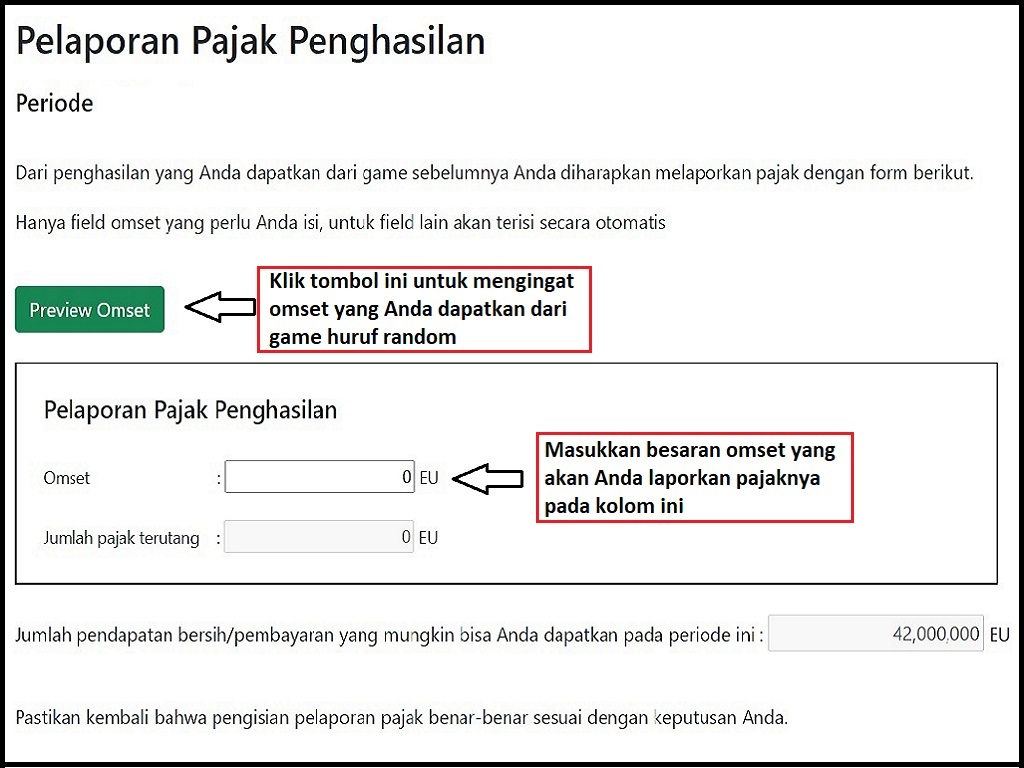
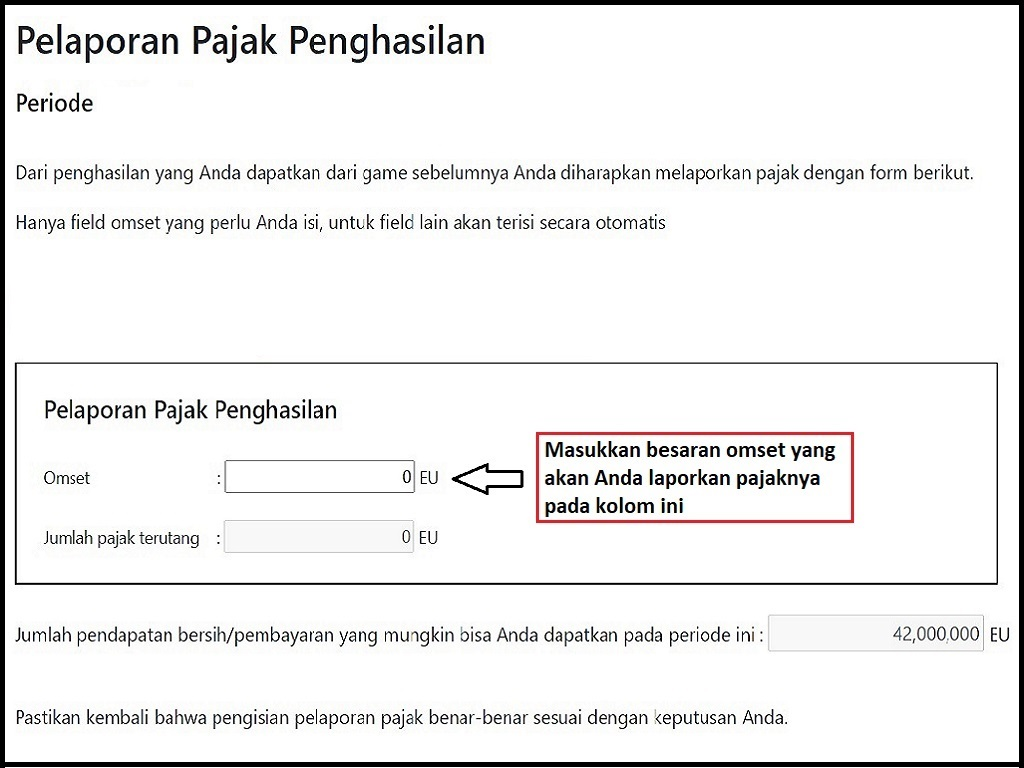
Mock Up 6.0

Changed region(s): [[0.0, 0.3438, 0.5938, 0.4688]]

diff --git a/instruction/templates/instruction/Pengantar.html b/instruction/templates/instruction/Pengantar.html
@@ -13,7 +13,7 @@
 {% block content %}
     <p><h5><b>Baca dan pahami cerita berikut untuk menjawab pertanyaan selanjutnya</b></h5></p>
     <p>Info Umum</p>
-	<p>Anda adalah warga negara <b>Nusa Makmur</b>. Pemerintah negara Nusa Makmur <b>mewajibkan setiap warga negara yang memiliki usaha untuk membayar pajak</b>. Pajak tersebut akan <b>digunakan untuk membiayai kebutuhan negara Nusa Makmur</b>. Pemungutan pajak dilakukan oleh <b>otoritas pajak Nusa Makmur</b>.</p>
+	<p>Anda adalah warga negara <b>Nusa Makmur</b>. Pemerintah negara Nusa Makmur <b>mewajibkan setiap warga negara yang memiliki usaha untuk untuk mencatat, membayar, dan melaporkan pajak</b>. Pajak tersebut akan <b>digunakan untuk membiayai kebutuhan negara Nusa Makmur</b>. Pemungutan pajak dilakukan oleh <b>otoritas pajak Nusa Makmur</b>.</p>
     <p>Nusa makmur menetapkan <b>perhitungan pajak</b> dengan cara yaitu:
         <ul>
             <li>tarif pajak dikali <b>dengan omset (bukan dari laba) sebagai dasar pengenaan pajak</b>.
@@ -23,16 +23,16 @@
         </ul>
     </p>
     <p>
-        Untuk saat ini, Anda sebagai warga negara Nusa Makmur akan membayar dan melaporkan pajak dalam <b>15 periode</b>.
+        Untuk saat ini, Anda sebagai warga negara Nusa Makmur akan mencatat, membayar dan melaporkan pajak dalam <b>15 periode</b>.
     </p>
     <p>
-        Sebagai bentuk <b>pengawasan atas pembayaran pajak</b> maka otoritas pajak Nusa Makmur diwajibkan melaksanakan pemeriksaan terhadap <b>20% s.d. 40% dari total pelaporan</b>, yaitu <b>3 atau 4 atau 5 atau 6 dari 15 periode pelaporan pajak</b> akan diperiksa di akhir periode pembayaran dan pelaporan pajak.
+        Sebagai bentuk <b>pengawasan atas pembayaran dan pelaporan pajak</b> maka otoritas pajak Nusa Makmur diwajibkan melaksanakan pemeriksaan pajak terhadap warga negara Nusa Makmur di akhir periode pembayaran dan pelaporan pajak. Pemeriksaan ini dilakukan secara acak dengan probabilitas diperiksa sebesar <b>20% s.d. 40% </b>untuk masing-masing wajib pajak pada setiap pelaporan pajaknya.
     </p>
 	<p>Atas pemeriksaan yang dilakukan, jika terdapat <b>ketidakpatuhan pembayaran pajak</b> atau dalam hal ini <b>omset yang dilaporkan tidak sesuai dengan omset yang sebenarnya</b> maka otoritas pajak Nusa Makmur akan menetapkan denda sebesar <b>200% dari selisih pajak yang kurang dibayar</b>.
     </p>
     <p>
         Isilah pertanyaan berikut terkait dengan informasi di atas dengan benar untuk dapat melanjutkan ke tahap berikutnya
-        <br>Pilih jawaban yang benar
+        <br>Pilih jawaban yang <b>benar</b>
     </p>
     {{formfield 'q1'}}
     {{formfield 'q2'}}

diff --git a/instruction/templates/instruction/Results.html b/instruction/templates/instruction/Results.html
@@ -14,13 +14,31 @@
 
 <h5>Periode latihan ke-{{round}}</h5>
 <br>
-    <p>Anda mendapatkan laba sebesar = <b><span id="laba"></span> EU</b>, dengan rincian</p>
-    <p>Waktu bermain {{player.waktu}} Detik dan jawaban yang benar adalah {{player.performance}}
-        <h5>Omset&#9;:&#9;{{player.performance}} x <span id="base_omset"></span> EU = <span id="omset"></span> EU</h5>
-        <h5>Biaya&#9;:&#9;{{base_biaya}}% x <span id="omset2"></span> EU = <span id="biaya"></span> EU</h5>
-        <h5>Laba&#9;:&#9;<span id="omset3"></span> EU - <span id="biaya2"></span> EU = <span id="laba2"></span> EU</h5>
-
-    </p>
+<p>Waktu bermain {{player.waktu}} Detik dan jawaban yang benar adalah {{player.performance}}, dengan rincian:</p>
+<table class="hasil">
+    <tr>
+        <td style="width: 30%;">
+            <h4>Omset</h4>{{player.performance}} x <span id="base_omset"></span> EU<br><br>
+            <h4><span id="omset"></span> EU</h4>
+        </td>
+        <td style="width: 30%;">
+            <h4>Biaya</h4>{{base_biaya}}% x <span id="omset2"></span> EU<br><br>
+            <h4><span id="biaya"></span> EU</h4>
+        </td>
+        <td style="width: 30%;">
+            <h4>Laba</h4><span id="omset3"></span> EU - <span id="biaya2"></span> EU<br><br>
+            <h4><span id="laba2"></span> EU</h4>
+        </td>
+    </tr>
+</table>
+<br>
+<table class="notif">
+    <tr>
+        <td>
+            <h5>Anda dapat mencatat hasil game effort (omset/biaya/laba) Anda untuk periode ini menggunakan alat tulis yang sudah Anda siapkan</h5>
+        </td>
+    </tr>
+</table>
     <br><br><br><br><br><br>
     <p>Tekan tombol 'Lanjut' untuk melanjutkan ke tahap berikutnya.</p>
     <button class="otree-btn-next btn btn-primary">Lanjut</button>
@@ -38,7 +56,7 @@
     document.getElementById("omset3").textContent = thousands_separators({{player.total_omset}});
     document.getElementById("biaya").textContent = thousands_separators({{player.total_biaya}});
     document.getElementById("biaya2").textContent = thousands_separators({{player.total_biaya}});
-    document.getElementById("laba").textContent = thousands_separators({{player.total_omset}} - {{player.total_biaya}})
+    //document.getElementById("laba").textContent = thousands_separators({{player.total_omset}} - {{player.total_biaya}})
     document.getElementById("laba2").textContent = thousands_separators({{player.total_omset}} - {{player.total_biaya}})
 
 </script>

diff --git a/game/templates/game/Hasil.html b/game/templates/game/Hasil.html
@@ -14,13 +14,31 @@
 
 <h5>Periode Inti ke-{{round}}</h5>
 <br>
-<p>Anda mendapatkan laba sebesar = <b><span id="laba"></span> EU</b>, dengan rincian</p>
-    <p>Waktu bermain {{player.waktu}} Detik dan jawaban yang benar adalah {{player.performance}}
-        <h5>Omset&#9;:&#9;{{player.performance}} x <span id="base_omset"></span> EU = <span id="omset"></span> EU</h5>
-        <h5>Biaya&#9;:&#9;{{base_biaya}}% x <span id="omset2"></span> EU = <span id="biaya"></span> EU</h5>
-        <h5>Laba&#9;:&#9;<span id="omset3"></span> EU - <span id="biaya2"></span> EU = <span id="laba2"></span> EU</h5>
-
-    </p>
+<p>Waktu bermain {{player.waktu}} Detik dan jawaban yang benar adalah {{player.performance}}, dengan rincian:</p>
+<table class="hasil">
+    <tr>
+        <td style="width: 30%;">
+            <h4>Omset</h4>{{player.performance}} x <span id="base_omset"></span> EU<br><br>
+            <h4><span id="omset"></span> EU</h4>
+        </td>
+        <td style="width: 30%;">
+            <h4>Biaya</h4>{{base_biaya}}% x <span id="omset2"></span> EU<br><br>
+            <h4><span id="biaya"></span> EU</h4>
+        </td>
+        <td style="width: 30%;">
+            <h4>Laba</h4><span id="omset3"></span> EU - <span id="biaya2"></span> EU<br><br>
+            <h4><span id="laba2"></span> EU</h4>
+        </td>
+    </tr>
+</table>
+<br>
+<table class="notif">
+    <tr>
+        <td>
+            <h5>Anda dapat mencatat hasil game effort (omset/biaya/laba) Anda untuk periode ini menggunakan alat tulis yang sudah Anda siapkan</h5>
+        </td>
+    </tr>
+</table>
     <br><br><br><br><br><br>
     <p>Tekan tombol 'Lanjut' untuk melanjutkan ke tahap berikutnya.</p>
     <button class="otree-btn-next btn btn-primary">Lanjut</button>
@@ -38,7 +56,7 @@
     document.getElementById("omset3").textContent = thousands_separators({{player.total_omset}});
     document.getElementById("biaya").textContent = thousands_separators({{player.total_biaya}});
     document.getElementById("biaya2").textContent = thousands_separators({{player.total_biaya}});
-    document.getElementById("laba").textContent = thousands_separators({{player.total_omset}} - {{player.total_biaya}})
+    //document.getElementById("laba").textContent = thousands_separators({{player.total_omset}} - {{player.total_biaya}})
     document.getElementById("laba2").textContent = thousands_separators({{player.total_omset}} - {{player.total_biaya}})
 
 </script>

diff --git a/instruction/templates/instruction/Instruksi3.html b/instruction/templates/instruction/Instruksi3.html
@@ -36,13 +36,12 @@ table.pre, td.pre, th.pre {
 {% block content %}
 <p>Beberapa hal yang perlu Anda pahami dalam eksperimen ini yaitu (lanjutan):</p>
 <p><h5><b>g. Pelaporan Pajak</b></h5></p>
-<p>Dari penghasilan yang Anda dapatkan dari game huruf random pada tahap sebelumnya. Anda akan melaporkan pajak dalam form berikut. Untuk memudahkan, hanya field omset yang perlu Anda isi, untuk field lain akan terisi secara otomatis. Berikut adalah tangkapan layar dari penelitian agar Anda dapat lebih mudah memahami.</p>
+<p>Dari pencatatan penghasilan yang Anda dapatkan dari game huruf random pada tahap sebelumnya, selanjutnya Anda akan melaporkan pajak dalam form berikut. Untuk memudahkan, hanya field omset yang perlu Anda isi, untuk field lain akan terisi secara otomatis. Berikut adalah tangkapan layar dari penelitian agar Anda dapat lebih mudah memahami.</p>
 <img src="{% static image_5%}" width="1024" height="768">
 
 <p>Fungsi tombol:</p>
 <ul>
-  <li>Tombol Preview Omset digunakan untuk melihat omset atau pendapatan yang Anda dapatkan dari game sebelumnya.</li>
-  <li>Jumlah pajak terutang dimunculkan sesuai omset yang Anda masukkan dalam kolom omset dengan penghitungan 10% dikali omset yang dilaporkan</li>
+  <li>Jumlah pajak terutang dimunculkan sesuai omset yang Anda masukkan dalam kolom omset dengan penghitungan <b>10%</b> dikali omset yang dilaporkan</li>
   <li>Jumlah pembayaran yang mungkin didapat adalah jumlah pembayaran yang mungkin bisa Anda dapatkan sesuai data pelaporan pajak yang Anda sampaikan dengan penghitungan Laba dikurangi Pajak terutang</li>
 </ul>
 <br>

diff --git a/consent/templates/consent/Welcome.html b/consent/templates/consent/Welcome.html
@@ -12,13 +12,14 @@
 
 {% block content %}
     <p>
-        Terima kasih atas partisipasi dalam penelitian ini. Data Anda dijamin keamanannya, analisis data akan dilakukan secara anonim. Tampilan terbaik untuk eksperimen ini adalah dengan menggunakan Laptop/PC.
+        Terima kasih atas partisipasi Anda dalam penelitian ini. Data Anda dijamin keamanannya. Analisis data dalam penelitian ini akan dilakukan secara anonim.
     </p>
-    <p>
-        Tampilan optimal untuk eksperimen ini adalah <b>dengan menggunakan Laptop/PC</b>, usahakan Anda berada di tempat yang nyaman dalam melaksanakan penelitian ini.
-    </p>
-    <p>
-        Meskipun penelitian ini dilakukan secara online, diharapkan masing-masing peserta tidak berkomunikasi satu sama lain.
+    <p>Untuk melaksanakan penelitian ini, maka:
+        <ol>
+            <li>Pastikan Anda berada <b>di tempat yang nyaman</b>.</li>
+            <li>Menyiapkan <b>Laptop/PC</b> yang dilengkapi dengan <b>koneksi internet yang baik</b> untuk mengakses penelitian ini agar menghasilkan <b>tampilan yang optimal</b>.</li>
+            <li>Menyiapkan <b>alat tulis (pensil/pena/kertas)</b> untuk <b>mencatat</b>.</li>
+        </ol>
     </p>
     <p>
         Anda akan dapat menyetujui informed consent dan menyimak instruksi permainan ini pada halaman berikutnya.

diff --git a/instruction/templates/instruction/Instruksi2.html b/instruction/templates/instruction/Instruksi2.html
@@ -53,8 +53,9 @@ table.pre, td.pre, th.pre {
 <p>Huruf yang muncul dalam pertanyaan serta urutan huruf dan angka dalam tabel enkripsi dirandom dengan distribusi uniform.</p>
 <p>Setelah waktu berakhir (sesuai mode yang dipilih) maka hasil game huruf random akan muncul. Misal Anda mendapat 8 jawaban benar maka pendapatan yang Anda dapatkan adalah:</p>
 <img src="{% static image_4 %}" width="1024" height="768">
+<p></p>
 <p>Secara rata-rata, semakin banyak jawaban benar maka semakin banyak pembayaran yang mungkin Anda dapatkan.</p>
-<p>Hasil dari game ini yang selanjutnya akan digunakan untuk keperluan pelaporan pajak pada tahap berikutnya.</p>
+<p>Hasil dari game ini selanjutnya akan digunakan untuk keperluan pelaporan pajak pada tahap berikutnya. Sekali lagi diingatkan bahwa tidak ada fitur back page atau kembali ke halaman sebelumnya dalam eksperimen ini sehingga hanya ada satu kesempatan untuk melakukan pencatatan omset sebelum meng-klik tombol lanjut.</p>
 <br>
 <p>Tekan tombol 'Lanjut' jika Anda sudah memahami instruksi di atas.</p>
 <button class="otree-btn-next btn btn-primary">Lanjut</button>

diff --git a/instruction/templates/instruction/Instruksi4.html b/instruction/templates/instruction/Instruksi4.html
@@ -36,7 +36,7 @@ table.pre, td.pre, th.pre {
 {% block content %}
 <p>Beberapa hal yang perlu Anda pahami dalam eksperimen ini yaitu (lanjutan):</p>
 <p><h5><b>h. Pemeriksaan</b></h5></p>
-<p>Pemeriksaan adalah pengujian kepatuhan atas omset yang Anda laporkan dibandingkan dengan omset yang Anda dapatkan dari game huruf random. Probabilitas pemeriksaan dalam penelitian ini sebesar 20% s.d 40% yang artinya jumlah periode yang diperiksa untuk pelaporan Anda adalah 3 atau 4 atau 5 atau 6 dari total 15 periode pelaporan pajak inti. Probabilitas, jumlah, dan urutan periode pemeriksaan dilakukan secara acak untuk masing-masing subjek.</p>
+<p>Pemeriksaan adalah pengujian kepatuhan atas omset yang Anda laporkan dibandingkan dengan omset yang Anda dapatkan dari game huruf random. Pemeriksaan ini dilakukan secara acak dengan probabilitas diperiksa sebesar 20% s.d. 40% untuk masing-masing wajib pajak pada setiap pelaporan pajaknya.</p>
 <p>Anda akan mendapat notifikasi hasil pemeriksaan yang berisikan:</p>
 <ul>
   <li>Status patuh/tidak patuh</li>

diff --git a/instruction/templates/instruction/Instruksi1.html b/instruction/templates/instruction/Instruksi1.html
@@ -35,7 +35,7 @@ table.pre, td.pre, th.pre {
 
 {% block content %}
 <p>Selamat datang dan terima kasih Anda telah bersedia untuk mengikuti eksperimen ini</p>
-<p><b>Ingat!</b> Anda tidak dapat menggunakan fitur <b>back page atau kembali ke halaman sebelumnya dalam eksperimen ini</b>.</p>
+<p><h4><b>Ingat!</b> Anda tidak dapat menggunakan fitur <b>back page atau kembali ke halaman sebelumnya dalam eksperimen ini</b>.</h4></p>
 <p>Maka dari itu, mohon pastikan Anda membaca dan memahami dengan seksama seluruh instruksi yang ada pada setiap halaman sebelum melanjutkan ke halaman berikutnya sehingga Anda dapat memahami apa yang harus Anda lakukan di dalam eksperimen ini</p>
 
 <p>Eksperimen ini memberikan Anda kesempatan untuk memperoleh uang tunai yang akan dibayarkan setelah Anda menyelesaikan rangkaian eksperimen ini. Besaran uang yang akan Anda peroleh bergantung pada apa yang Anda lakukan di dalam eksperimen ini. Oleh karenanya, mohon untuk serius dalam menyelesaikannya sesuai dengan keputusan Anda.</p>

diff --git a/instruction/templates/instruction/Instruksi6.html b/instruction/templates/instruction/Instruksi6.html
@@ -41,8 +41,9 @@ table.pre, td.pre, th.pre {
 <img src="{% static image_8 %}" width="1024" height="768"><br><br>
 <p>b. Mengisi jawaban yang benar</p>
 <img src="{% static image_9 %}" width="1024" height="768"><br><br>
-<p>2) Memeriksa hasil pendapatan Anda dari game tersebut</p>
+<p>2) Memeriksa dan mencatat hasil pendapatan Anda dari game tersebut</p>
 <img src="{% static image_10 %}" width="1024" height="768"><br><br>
+<p>Tidak ada fitur back page atau kembali ke halaman sebelumnya dalam eksperimen ini sehingga hanya ada satu kesempatan untuk melakukan pencatatan omset. Anda dapat mencatat hasil game effort (omset/biaya/laba) Anda untuk periode ini menggunakan alat tulis yang sudah Anda siapkan sebelum meng-klik tombol lanjut.</p>
 <p>3) Melaporkan pajak penghasilan Anda</p>
 <img src="{% static image_11 %}" width="1024" height="768"><br><br>
 <p>4)	Memastikan bahwa Anda sudah yakin dengan nilai omset yang Anda laporkan</p>

diff --git a/after_survey/templates/after_survey/Survey.html b/after_survey/templates/after_survey/Survey.html
@@ -22,8 +22,8 @@ Kuesioner
 {{ formfield 's9' }}
 {% if treatment != 0 %}
 {{formfield 's10'}}
-{% endif %}
 {{formfield 's11'}}
+{% endif %}
 <br><br>
 <p>Tekan tombol 'Lanjut' untuk masuk ke halaman berikutnya.</p>
 <button class="otree-btn-next btn btn-primary">Lanjut</button>
@@ -36,6 +36,14 @@ Kuesioner
         } else {
             $('#id_s4').removeAttr("disabled");
             $('#id_s5').attr('disabled', 'disabled');
+        }
+    });
+    $('#id_s1').on('change', function(){
+        const selectedPackage = $('#id_s1').val();
+        if (selectedPackage == 4) {
+            $('#id_s2').attr('disabled', 'disabled');
+        } else {
+            $('#id_s2').removeAttr("disabled");
         }
     });
 </script>

diff --git a/instruction/templates/instruction/Instruksi7.html b/instruction/templates/instruction/Instruksi7.html
@@ -36,8 +36,8 @@ table.pre, td.pre, th.pre {
 {% block content %}
 <br>
 <br>
-<p>Instruksi eksperimen dalam bentuk pdf dapat Anda unduh di link berikut:<br>
-<a id="btn_download" class="btn btn-primary" target="_blank" href="{% static instruksi %}">Download Instruksi</a>
+<p>Instruksi eksperimen dalam bentuk pdf dapat Anda unduh di link berikut:
+<a id="btn_download" class="btn btn-primary" target="_blank" href="{% static instruksi %}">Download File Instruksi</a>
 <br><br>
 <p id="ket_lanjut" hidden="true">Tekan tombol 'Lanjut' jika Anda sudah memahami instruksi di atas.</p>
 <button id="btn_lanjut" hidden="true" class="otree-btn-next btn btn-primary">Lanjut</button>

diff --git a/game/templates/game/Laporpajak.html b/game/templates/game/Laporpajak.html
@@ -41,7 +41,7 @@ Pelaporan Pajak Penghasilan
   <p>Hanya field omset yang perlu Anda isi, untuk field lain akan terisi secara otomatis
 </p>
 <br>
-<input id="preview" type="button" class="btn btn-success" onclick="prevFunction()" value="Preview Omset" />&emsp;&emsp;<span id="prev"></span>
+<!--input id="preview" type="button" class="btn btn-success" onclick="prevFunction()" value="Preview Omset" />&emsp;&emsp;<span id="prev"></span-->
 
 <table class="lap">
     <tr><td class="lap">
